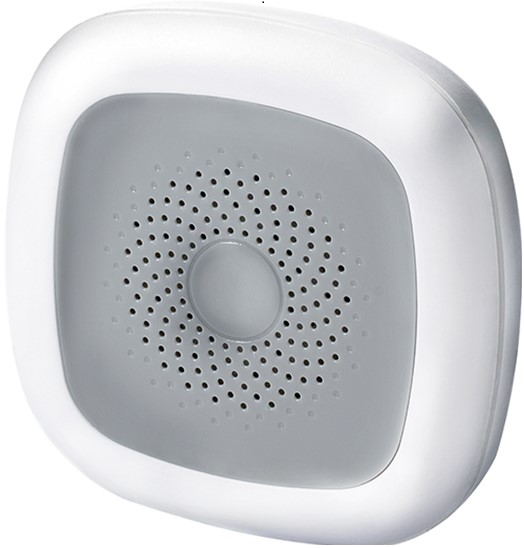
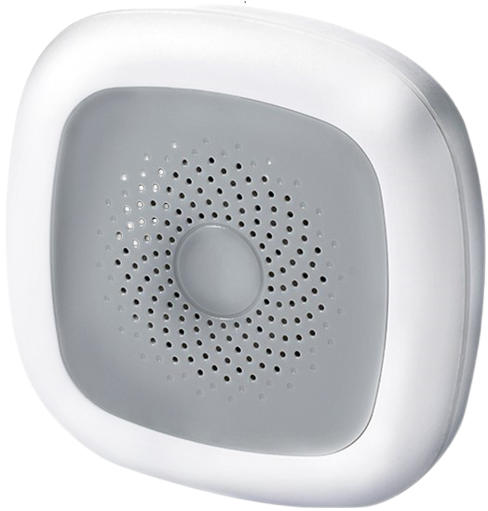
Heiman HS1HT: Mise-à-jour image

diff --git a/docs/fr_FR/Changelog.rst b/docs/fr_FR/Changelog.rst
@@ -1,6 +1,8 @@
 ChangeLog
 =========
 
+- Heiman HS1HT: Mise-à-jour image (2520).
+
 221214-BETA-9
 -------------
 
